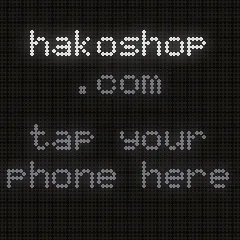
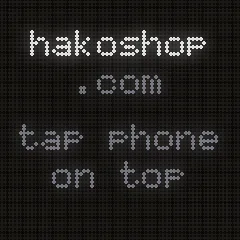
Say where to tap: the top of the box; compliance and licenses pages
The NFC tag is under the top board, so every mention of tapping now says
to tap the top of the box (English, Japanese, German), and the panel
image says 'tap phone on top'. New /compliance page (certification
status, safety, recycling) and /licenses page (open-source notices,
including the GPL source offer for the LED matrix driver), linked from
the footer and the booklet.

Claude-Session: https://claude.ai/code/session_01MjtzJyNk46ibxxTb3dZ6aj

diff --git a/ja/index.html b/ja/index.html
@@ -400,7 +400,7 @@
         <div class="feature reveal">
           <img src="../assets/images/live/tap.webp" alt="スマホをかざすよう案内するhako" width="240" height="240" loading="lazy" />
           <h3>タッチでつながる</h3>
-          <p>スマホを箱にかざすだけで設定が開きます。アプリのインストールもIPアドレスの入力も不要。カメラ派ならQRコードも表示できます。</p>
+          <p>スマホを箱の上面にかざすだけで設定が開きます。アプリのインストールもIPアドレスの入力も不要。カメラ派ならQRコードも表示できます。</p>
         </div>
         <div class="feature reveal">
           <img src="../assets/images/live/pong.webp" alt="hakoのパネルで遊ぶポン" width="240" height="240" loading="lazy" />
@@ -483,7 +483,7 @@
             <rect x="170" y="98" width="38" height="10" rx="5" class="ill-ink"/>
           </svg>
           <h3>スマホで接続</h3>
-          <p>コードを読み取るか、スマホを箱にかざします。Wi-Fiを選んでパスワードを入力するだけ。タイムゾーンと言語は自動で設定されます。</p>
+          <p>コードを読み取るか、スマホを箱の上面にかざします。Wi-Fiを選んでパスワードを入力するだけ。タイムゾーンと言語は自動で設定されます。</p>
         </li>
         <li class="how-step reveal">
           <span class="how-num">3</span>
@@ -644,7 +644,7 @@
 
       <div class="inside reveal">
         <h3>箱の中身</h3>
-        <p class="edition-sub">ノブがひとつと振動センサー、そしてスマホをかざすためのNFCチップが木の下に入っています。</p>
+        <p class="edition-sub">ノブがひとつと振動センサー、そしてスマホをかざすためのNFCチップが箱の上面の木の下に入っています。</p>
         <div class="inside-layout">
           <svg class="inside-art" viewBox="0 0 640 330" role="img" aria-label="hakoの内部構造：LEDパネル、Raspberry Pi、NFCチップ、振動センサー、ノブ、電源">
             <g class="ill-waves">
@@ -689,7 +689,7 @@
           <ol class="inside-legend">
             <li><strong>64×64 LEDパネル</strong> <span>4,096個のLEDで、部屋の向こうからでも読みやすい</span></li>
             <li><strong>Raspberry Piとマトリクスドライバー</strong> <span>hakoのソフトウェアを動かし、夜間に自動でアップデート</span></li>
-            <li><strong>木のすぐ下のNFCチップ</strong> <span>ここにスマホをかざすと、Wi-Fiの設定やhakoの設定ページが開きます</span></li>
+            <li><strong>上面の木のすぐ下のNFCチップ</strong> <span>箱の上面にスマホをかざすと、Wi-Fiの設定やhakoの設定ページが開きます</span></li>
             <li><strong>振動センサー</strong> <span>軽く振ると次の画面へ</span></li>
             <li><strong>ノブ</strong> <span>回すと画面切り替え、押すと更新、長押しでメニュー</span></li>
             <li><strong>電源</strong> <span>お住まいの国に合ったアダプターひとつ</span></li>
@@ -974,6 +974,8 @@
           <a href="../privacy.html">プライバシー</a>
           <a href="../terms.html">利用規約</a>
           <a href="../shipping.html">配送と返品</a>
+          <a href="../compliance.html">法令・認証</a>
+          <a href="../licenses.html">オープンソースライセンス</a>
           <a href="mailto:hello@hakoshop.com">メール</a>
         </div>
       </div>

diff --git a/de/index.html b/de/index.html
@@ -400,7 +400,7 @@
         <div class="feature reveal">
           <img src="../assets/images/live/tap.webp" alt="hako bittet dich, dein Handy anzuhalten" width="240" height="240" loading="lazy" />
           <h3>Antippen und verbinden</h3>
-          <p>Halte dein Handy an die Box, und die Einstellungen öffnen sich. Keine App, keine IP-Adressen. Lieber mit der Kamera? Ein QR-Code geht auch.</p>
+          <p>Halte dein Handy oben auf die Box, und die Einstellungen öffnen sich. Keine App, keine IP-Adressen. Lieber mit der Kamera? Ein QR-Code geht auch.</p>
         </div>
         <div class="feature reveal">
           <img src="../assets/images/live/pong.webp" alt="Eine Runde Pong auf dem hako-Panel" width="240" height="240" loading="lazy" />
@@ -483,7 +483,7 @@
             <rect x="170" y="98" width="38" height="10" rx="5" class="ill-ink"/>
           </svg>
           <h3>Mit dem Handy verbinden</h3>
-          <p>Scanne den Code oder halte dein Handy an die Box. Wähle dein WLAN und gib das Passwort ein. Zeitzone und Sprache werden automatisch eingestellt.</p>
+          <p>Scanne den Code oder halte dein Handy oben auf die Box. Wähle dein WLAN und gib das Passwort ein. Zeitzone und Sprache werden automatisch eingestellt.</p>
         </li>
         <li class="how-step reveal">
           <span class="how-num">3</span>
@@ -644,7 +644,7 @@
 
       <div class="inside reveal">
         <h3>Was in der Box steckt</h3>
-        <p class="edition-sub">Es hat einen Drehknopf, einen Schüttelsensor und einen NFC-Chip unter dem Holz, an den du dein Handy hältst.</p>
+        <p class="edition-sub">Es hat einen Drehknopf, einen Schüttelsensor und einen NFC-Chip unter der Oberseite, an den du dein Handy hältst.</p>
         <div class="inside-layout">
           <svg class="inside-art" viewBox="0 0 640 330" role="img" aria-label="Schnitt durch die hako-Box: LED-Panel, Raspberry Pi, NFC-Chip, Schüttelsensor, Drehknopf und Stromversorgung">
             <g class="ill-waves">
@@ -689,7 +689,7 @@
           <ol class="inside-legend">
             <li><strong>64×64-LED-Panel</strong> <span>4.096 Lichter, auch quer durch den Raum gut lesbar</span></li>
             <li><strong>Raspberry Pi und Matrix-Treiber</strong> <span>steuert hako und aktualisiert sich nachts von selbst</span></li>
-            <li><strong>NFC-Chip, direkt unter dem Holz</strong> <span>Handy hier antippen, um das WLAN einzurichten oder hakos Webseite zu öffnen</span></li>
+            <li><strong>NFC-Chip, direkt unter der Oberseite</strong> <span>Handy oben an die Box halten, um das WLAN einzurichten oder hakos Webseite zu öffnen</span></li>
             <li><strong>Schüttelsensor</strong> <span>leicht schütteln zeigt den nächsten Bildschirm</span></li>
             <li><strong>Drehknopf</strong> <span>drehen wechselt den Bildschirm, drücken aktualisiert, halten öffnet das Menü</span></li>
             <li><strong>Strom</strong> <span>ein Netzteil, passend für dein Land</span></li>
@@ -974,6 +974,8 @@
           <a href="../privacy.html">Datenschutz</a>
           <a href="../terms.html">AGB</a>
           <a href="../shipping.html">Versand &amp; Rückgabe</a>
+          <a href="../compliance.html">Konformität</a>
+          <a href="../licenses.html">Open-Source-Lizenzen</a>
           <a href="mailto:hello@hakoshop.com">E-Mail</a>
         </div>
       </div>

diff --git a/index.html b/index.html
@@ -381,7 +381,7 @@
         <div class="feature reveal">
           <img src="assets/images/live/tap.webp" alt="hako asking you to tap your phone" width="240" height="240" loading="lazy" />
           <h3>Tap to connect</h3>
-          <p>Tap your phone on the box to open its settings. No app to install and no IP addresses to type. Prefer the camera? It shows a QR code too.</p>
+          <p>Tap your phone on the top of the box to open its settings. No app to install and no IP addresses to type. Prefer the camera? It shows a QR code too.</p>
         </div>
         <div class="feature reveal">
           <img src="assets/images/live/pong.webp" alt="A game of Pong on the hako panel" width="240" height="240" loading="lazy" />
@@ -464,7 +464,7 @@
             <rect x="170" y="98" width="38" height="10" rx="5" class="ill-ink"/>
           </svg>
           <h3>Connect with your phone</h3>
-          <p>Scan the code, or tap your phone on the box. Pick your Wi-Fi and type the password. Time zone and language are set for you.</p>
+          <p>Scan the code, or tap your phone on the top of the box. Pick your Wi-Fi and type the password. Time zone and language are set for you.</p>
         </li>
         <li class="how-step reveal">
           <span class="how-num">3</span>
@@ -626,7 +626,7 @@
 
       <div class="inside reveal">
         <h3>What's inside the box</h3>
-        <p class="edition-sub">It has one knob, a shake sensor, and an NFC chip under the wood that you tap your phone on.</p>
+        <p class="edition-sub">It has one knob, a shake sensor, and an NFC chip under the top of the box that you tap your phone on.</p>
         <div class="inside-layout">
           <svg class="inside-art" viewBox="0 0 640 330" role="img" aria-label="Cutaway of the hako box showing the LED panel, Raspberry Pi, NFC chip, shake sensor, knob and power">
             <g class="ill-waves">
@@ -671,7 +671,7 @@
           <ol class="inside-legend">
             <li><strong>64×64 LED panel</strong> <span>4,096 lights, easy to read from across the room</span></li>
             <li><strong>Raspberry Pi and matrix driver</strong> <span>runs hako's software and updates itself overnight</span></li>
-            <li><strong>NFC chip, just under the wood</strong> <span>tap your phone here to set up Wi-Fi or open hako's web page</span></li>
+            <li><strong>NFC chip, just under the top</strong> <span>tap your phone on the top of the box to set up Wi-Fi or open hako's web page</span></li>
             <li><strong>Shake sensor</strong> <span>a gentle shake shows the next screen</span></li>
             <li><strong>Knob</strong> <span>turn to change screens, press to refresh, hold for the menu</span></li>
             <li><strong>Power</strong> <span>one adapter, made for your country</span></li>
@@ -962,6 +962,8 @@
           <a href="privacy.html">Privacy</a>
           <a href="terms.html">Terms</a>
           <a href="shipping.html">Shipping &amp; returns</a>
+          <a href="compliance.html">Compliance</a>
+          <a href="licenses.html">Open-source licenses</a>
           <a href="mailto:hello@hakoshop.com">Email</a>
         </div>
       </div>

diff --git a/licenses.html b/licenses.html
@@ -1,0 +1,51 @@
+<!DOCTYPE html>
+<html lang="en" data-theme="light">
+<head>
+  <meta charset="UTF-8" />
+  <meta name="viewport" content="width=device-width, initial-scale=1.0" />
+  <title>Open-source licenses · hako</title>
+  <link rel="icon" type="image/svg+xml" href="assets/images/favicon.svg" />
+  <link rel="preconnect" href="https://fonts.googleapis.com">
+  <link rel="preconnect" href="https://fonts.gstatic.com" crossorigin>
+  <link href="https://fonts.googleapis.com/css2?family=Shippori+Mincho:wght@400;500;600;700;800&family=IBM+Plex+Sans:wght@300;400;500;600&display=swap" rel="stylesheet" />
+  <link rel="stylesheet" href="style.css" />
+  <script>
+    try {
+      var t = localStorage.getItem("hako-theme");
+      if (t) document.documentElement.setAttribute("data-theme", t);
+    } catch (e) {}
+  </script>
+</head>
+<body>
+  <main class="policy">
+    <a class="policy-back" href="./">&larr; hako</a>
+    <h1>Open-source licenses</h1>
+    <p class="policy-date">Last updated October 2026</p>
+
+    <p>hako's software is built on free and open-source work. Thank you to everyone below. Each component keeps its own license; the full texts come with the software on the device and are available on request.</p>
+
+    <h2>On the device</h2>
+    <ul>
+      <li><strong>Raspberry Pi OS</strong> (based on Debian): many free-software licenses, including the GNU GPL. Source: raspberrypi.com and debian.org.</li>
+      <li><strong>rpi-rgb-led-matrix</strong> by Henner Zeller, which drives the LED panel: GNU GPL v2. We'll send you the complete corresponding source code, including our build settings, on request for at least three years after we last ship hako: email <a href="mailto:hello@hakoshop.com">hello@hakoshop.com</a>.</li>
+      <li><strong>Python libraries:</strong> Flask and Werkzeug (BSD-3-Clause), Requests (Apache 2.0), Pillow (MIT-CMU), qrcode (BSD), cryptography (Apache 2.0 / BSD), NumPy (BSD-3-Clause), gpiozero (BSD-3-Clause), mpu6050-raspberrypi (MIT).</li>
+      <li><strong>Alpine.js</strong>, used by the settings page: MIT.</li>
+    </ul>
+
+    <h2>Fonts on the screen</h2>
+    <ul>
+      <li><strong>Misaki Gothic</strong> and <strong>k8x12</strong> by Num Kadoma: free to use, copy and redistribute, including commercially.</li>
+      <li><strong>GNU Unifont</strong>: SIL Open Font License 1.1, and GNU GPL v2+ with the font embedding exception.</li>
+      <li><strong>Fusion Pixel</strong> by TakWolf: SIL Open Font License 1.1.</li>
+    </ul>
+
+    <h2>Printed materials</h2>
+    <ul>
+      <li><strong>Zen Old Mincho</strong> and <strong>Zen Kaku Gothic New</strong>: SIL Open Font License 1.1.</li>
+    </ul>
+
+    <p>Anki is a trademark of its owner. hako is an independent product and isn't affiliated with or endorsed by Anki. Raspberry Pi is a trademark of Raspberry Pi Ltd.</p>
+
+  </main>
+</body>
+</html>

diff --git a/compliance.html b/compliance.html
@@ -1,0 +1,41 @@
+<!DOCTYPE html>
+<html lang="en" data-theme="light">
+<head>
+  <meta charset="UTF-8" />
+  <meta name="viewport" content="width=device-width, initial-scale=1.0" />
+  <title>Compliance · hako</title>
+  <link rel="icon" type="image/svg+xml" href="assets/images/favicon.svg" />
+  <link rel="preconnect" href="https://fonts.googleapis.com">
+  <link rel="preconnect" href="https://fonts.gstatic.com" crossorigin>
+  <link href="https://fonts.googleapis.com/css2?family=Shippori+Mincho:wght@400;500;600;700;800&family=IBM+Plex+Sans:wght@300;400;500;600&display=swap" rel="stylesheet" />
+  <link rel="stylesheet" href="style.css" />
+  <script>
+    try {
+      var t = localStorage.getItem("hako-theme");
+      if (t) document.documentElement.setAttribute("data-theme", t);
+    } catch (e) {}
+  </script>
+</head>
+<body>
+  <main class="policy">
+    <a class="policy-back" href="./">&larr; hako</a>
+    <h1>Compliance</h1>
+    <p class="policy-date">Last updated October 2026</p>
+
+    <p>hako is still in testing. Before the first boxes ship, this page will list its certifications (FCC in the US, ISED in Canada, CE and UKCA in Europe and the UK) and link to its declarations of conformity. The booklet in the box points here, so this is where the full statements will always live.</p>
+
+    <h2>The device</h2>
+    <p>Model: hako. Power: 5V ⎓ 3A over USB-C. hako connects over 2.4 GHz and 5 GHz Wi-Fi through the Raspberry Pi computer inside it, and has an NFC tag under the top of the box that a phone can read.</p>
+
+    <h2>Safety</h2>
+    <p>Use the power supply that came with hako, or another certified USB-C supply. Indoors only; keep it away from water, heat and direct sun. Don't open the case: there are no user-serviceable parts inside. Not a toy.</p>
+
+    <h2>Recycling</h2>
+    <p>Don't put hako in household waste. Take it to an electronics collection point, or email us and we'll take it back and recycle it.</p>
+
+    <h2>Questions</h2>
+    <p>Email <a href="mailto:hello@hakoshop.com">hello@hakoshop.com</a>.</p>
+
+  </main>
+</body>
+</html>
